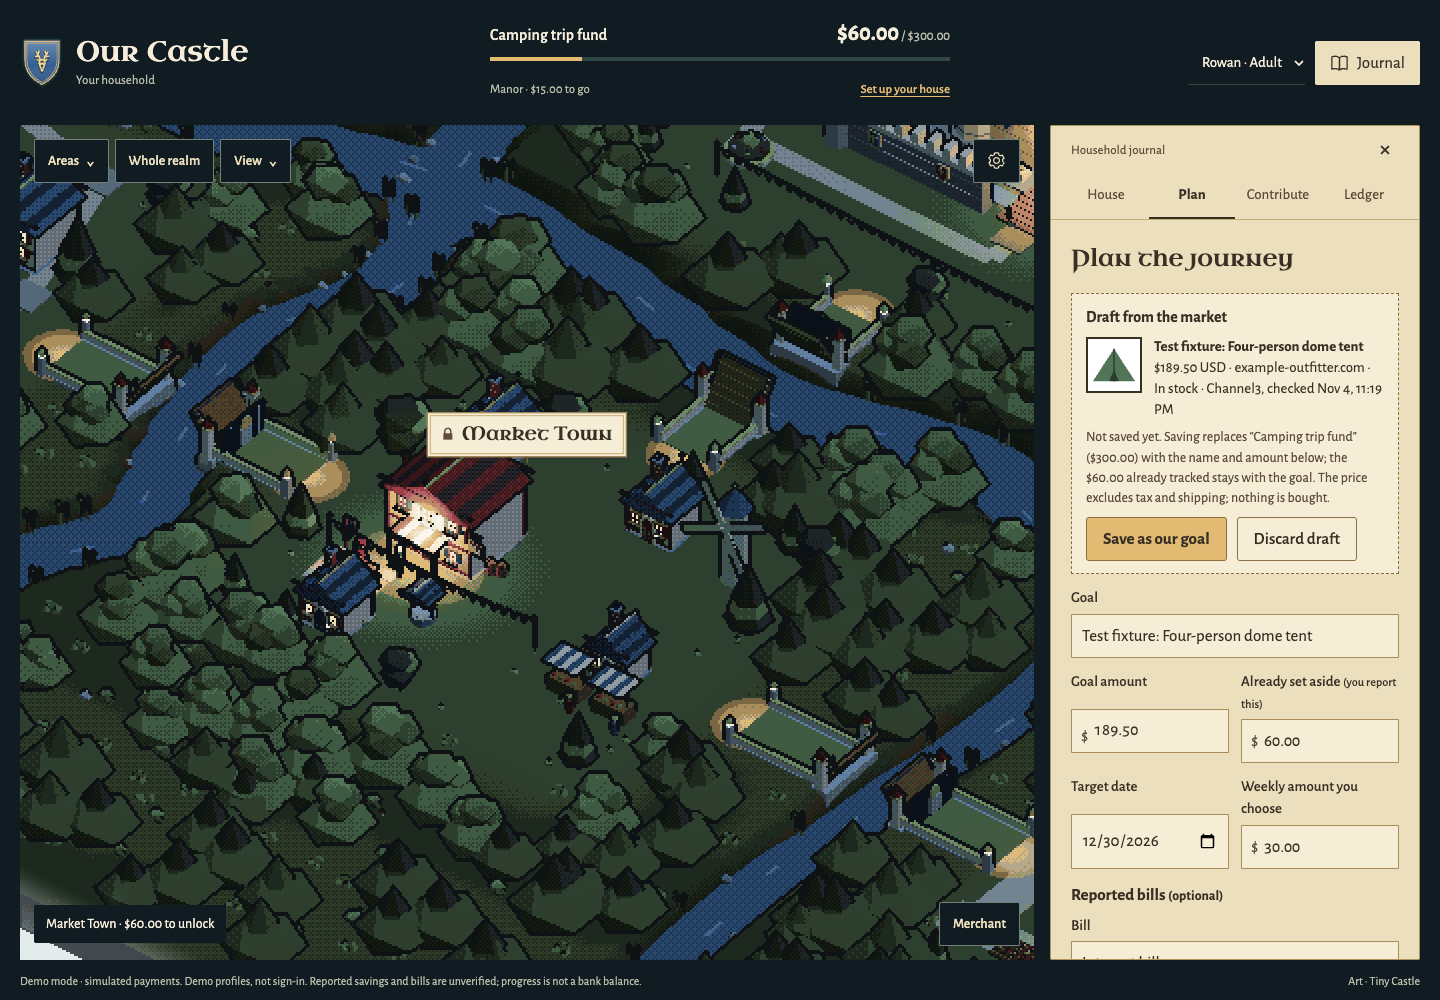
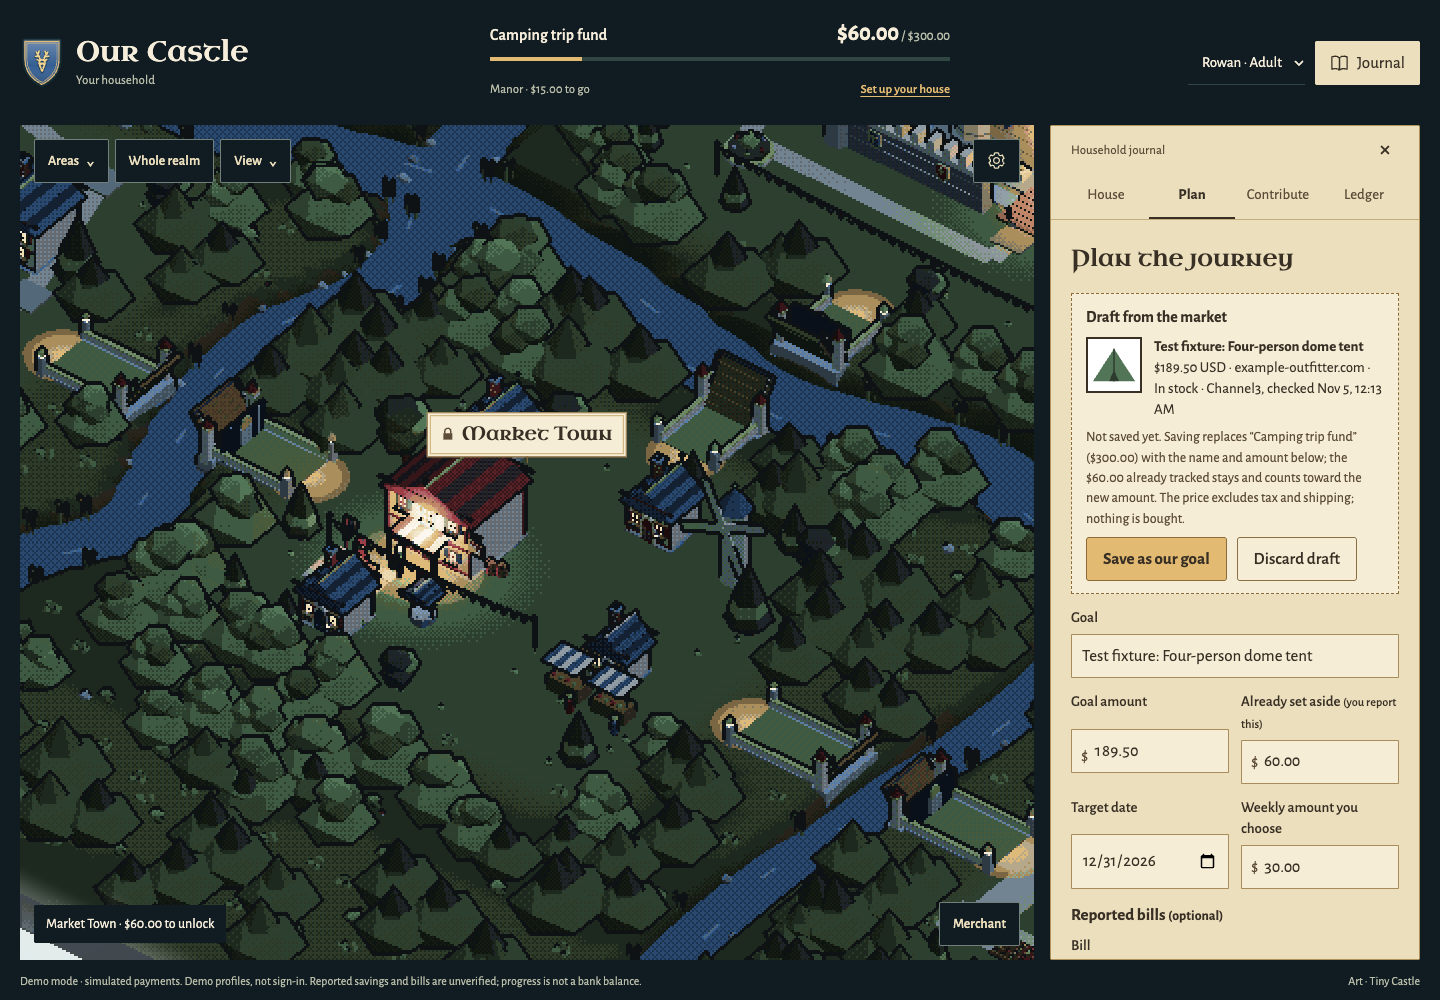
Save a confirmed merchant goal at the item's actual price
Codex review of ff3f923: with $60 tracked, the $189.50 tent could not become
the goal; the merchant refused any amount that would open an area and offered
an inflated $240.01. That merchant-only floor misread "browsing must not
unlock anything" and is removed with its minimum-amount plumbing and the
"Set the goal to ..." action.

Searching and "Use as goal" still change nothing. "Save as our goal" is now
the ordinary updateGoal edit at the actual price (or more, chosen
deliberately): same validation and milestone recording as the Plan editor,
so already-tracked progress may open an area with its usual deed. No money
moves. Refusals for a below-price amount, wrong currency, stale goal,
expired draft or invalid goal stay, and leave everything unchanged.

The disconnected and key-rejected messages are now short and family-facing;
operator setup stays in docs/CHANNEL3-MERCHANT.md. Unit cases compare the
save with the ordinary goal route on an identical household, including a
fully funded low-cost item.

Changed region(s): [[0.7188, 0.465, 0.9688, 0.961], [0.5, 0.527, 0.5312, 0.558], [0.4688, 0.496, 0.5, 0.527]]

diff --git a/src/app/main.js b/src/app/main.js
@@ -785,7 +785,7 @@ function renderGoalDraft() {
   $('#goal-draft-facts').textContent = ` ${resultFacts(draft).join(' · ')} · Channel3, checked ${timeLabel(draft.checkedAt)}`;
   const { goal, progress } = state;
   const effects = [`Not saved yet. Saving replaces “${goal.name}” (${money(goal.targetCents)}) with the name and amount below`];
-  if (progress.progressCents > 0) effects.push(`; the ${money(progress.progressCents)} already tracked stays with the goal`);
+  if (progress.progressCents > 0) effects.push(`; the ${money(progress.progressCents)} already tracked stays and counts toward the new amount`);
   if (state.plan) effects.push('; the current plan is set aside, so make a new one afterwards');
   effects.push('. The price excludes tax and shipping; nothing is bought.');
   $('#goal-draft-effect').textContent = effects.join('');
@@ -824,10 +824,7 @@ async function saveGoalDraft() {
     setStatus('#plan-status', 'ok', `Goal saved: ${res.state.goal.name}, ${money(res.state.goal.targetCents)}. Make a plan when you are ready.`);
     $('#goal-name-input').focus();
   } catch (error) {
-    const fix = error.code === 'merchant_would_open_areas' && Number.isSafeInteger(error.minTargetCents) ? error.minTargetCents : null;
-    setStatus('#plan-status', 'error', error.message, fix ? {
-      action: h('button', { type: 'button', onclick: () => { $('#goal-target').value = centsToInput(fix); setStatus('#plan-status', '', ''); $('#goal-target').focus(); } }, `Set the goal to ${money(fix)}`),
-    } : {});
+    setStatus('#plan-status', 'error', error.message); // a refused save changes nothing; the draft stays for review
     if (error.code === 'merchant_draft_expired' || error.code === 'goal_changed') { ui.goalDraft = null; renderGoalDraft(); }
   } finally {
     button.disabled = false;

diff --git a/src/app/merchant.js b/src/app/merchant.js
@@ -48,7 +48,7 @@ export function createMerchantDialog({ getState, onUse }) {
     const on = connected();
     for (const el of form.elements) el.disabled = !on;
     if (!on) {
-      say('off', 'Channel3 is not connected on this server yet. Add CHANNEL3_API_KEY to the local .env and restart; nothing is searched until then.');
+      say('off', 'The merchant isn’t open yet: product search is not connected.'); // setup steps: docs/CHANNEL3-MERCHANT.md
       list.replaceChildren();
       source.hidden = true;
     } else if (status.dataset.kind === 'off') say('', '');

diff --git a/src/app/api.js b/src/app/api.js
@@ -6,7 +6,6 @@ export class ApiError extends Error {
     this.code = error.code;
     this.issues = error.issues;
     this.debugId = error.debugId;
-    this.minTargetCents = error.minTargetCents; // merchant goal: the smallest amount that opens no area
   }
 }
 

diff --git a/docs/CHANNEL3-MERCHANT.md b/docs/CHANNEL3-MERCHANT.md
@@ -16,7 +16,7 @@ Put the key in the server's local `.env`. It stays server-side and is never sent
 CHANNEL3_API_KEY=...
 ```
 
-Restart the server; the start-up line then reads `Merchant: Channel3 product search`. Without a key, the merchant says "Channel3 is not connected on this server yet…", its fields are disabled, and no request is made. Keys come from a free developer account (https://trychannel3.com/sign-up/developer → https://trychannel3.com/dashboard/api). Channel3 documents 1,000 free credits a month, and one search costs one credit. The sponsor's promo code (PAYPAL-HACKATHON-2026) was not used or verified here; no account, purchase or terms acceptance was automated.
+Restart the server; the start-up line then reads `Merchant: Channel3 product search`. Without a key, the family sees only "The merchant isn't open yet: product search is not connected.", its fields are disabled, and no request is made. These setup steps are for whoever runs the server and are not shown in the game. Keys come from a free developer account (https://trychannel3.com/sign-up/developer → https://trychannel3.com/dashboard/api). Channel3 documents 1,000 free credits a month, and one search costs one credit. The sponsor's promo code (PAYPAL-HACKATHON-2026) was not used or verified here; no account, purchase or terms acceptance was automated.
 
 ## Contract and sources
 
@@ -58,12 +58,18 @@ In the browser, only the newest search may update the list; an older answer is a
 The household has a single active goal, and goal edits already set earlier plans aside. A merchant result is therefore a draft imported into the existing Plan editor. It is never a silent replacement, and `POST /api/merchant/goal` saves it only on the family's click.
 
 - The draft is the server's own copy of a result it showed. A `draftId` is valid for 30 minutes, and the client cannot invent provenance.
-- The goal changes through the existing `updateGoal`, with the same validation. Starting progress, ledger, contributions and members stay untouched, and plans are set aside as with any goal edit. The draft note says what will change before saving.
+- Searching and "Use as goal" change nothing on the server. On "Save as our goal" the goal changes through the existing `updateGoal`, exactly as the Plan editor would save the same values: same validation, plans set aside, and milestones recorded for progress already tracked against the new amount.
+  - So a $189.50 tent with $60 already reported becomes a $189.50 goal, and the Manor (25%) opens with its usual deed. The Plan editor would do the same for that edit. A unit test checks this against the ordinary goal route.
+  - No money is credited, captured or paid out; ledger entries, payment orders and members stay as they were. The draft note says what will change before saving.
+- The actual returned price is the default amount. A family may deliberately choose more (tax, shipping, a broader goal) but never less.
 - The save is refused if:
   - the amount is below the item's price;
+  - the price isn't in the goal currency;
   - the goal changed since the draft was made;
   - the draft expired;
-  - the new amount would open any area from progress already tracked. The refusal offers the smallest safe amount, for example "Set the goal to $240.01". Areas open only through progress.
+  - the ordinary goal validation fails.
+- A refused save leaves the goal, item and records unchanged.
+- Correction (November 5): an earlier version refused any amount that would open an area from already-tracked progress and offered an inflated minimum ($240.01 for the $189.50 tent). That merchant-only rule was a misreading of "browsing must not unlock anything" and has been removed.
 - Provenance is kept in the additive `goal_items` table (migration 3): product id, title, merchant, link, item price, currency, availability and the time Channel3 checked. It is not search history. The Plan form shows it while the goal keeps that name. Channel3 says offer links are short-lived, so the saved link is labelled as of its checked time.
 - Role rules are unchanged: anyone who may edit the goal may confirm a draft. Contributions still need an adult's amount-specific approval, and nothing here touches payment code.
 
@@ -85,7 +91,7 @@ The household has a single active goal, and goal edits already set earlier plans
   - explicit search only;
   - three honest rows with image, price, merchant and availability;
   - the secondary safe link and disclosure;
-  - the draft and the area refusal with its smallest-safe-amount fix, then the confirmed save;
+  - the draft, then the confirmed save at the actual price with the ordinary Manor deed, then reload persistence;
   - stale answers dropped;
   - empty, error and link-refused states;
   - Escape and focus return;

diff --git a/docs/VALIDATION.md b/docs/VALIDATION.md
@@ -28,7 +28,8 @@ Eleven unit cases and six desktop/touch-phone browser cases passed. They use a f
 - cache and burst limits;
 - explicit search only, with stale answers dropped;
 - the unsaved Plan draft and its confirmed save, which writes provenance only, with no ledger, order or area change;
-- the area-opening and below-price refusals;
+- the confirmed save at the actual price, matching the ordinary goal edit (a later correction removed a merchant-only area floor);
+- the below-price, stale-goal and expired-draft refusals;
 - Escape/focus return and the not-connected state;
 - the additive `goal_items` migration.
 
